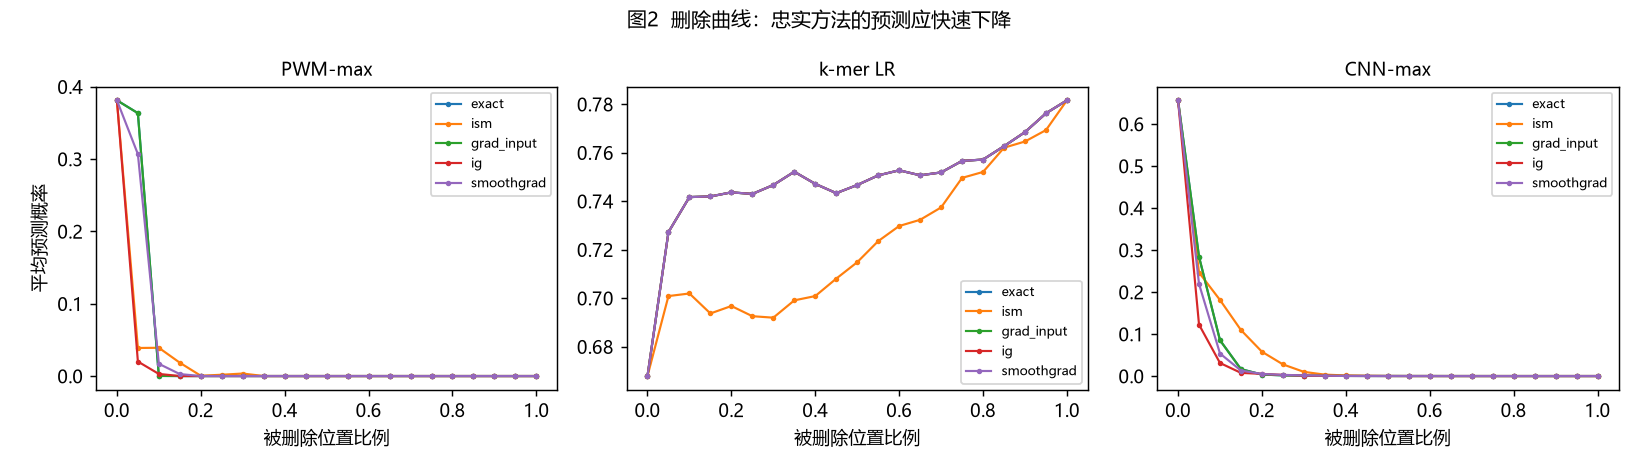
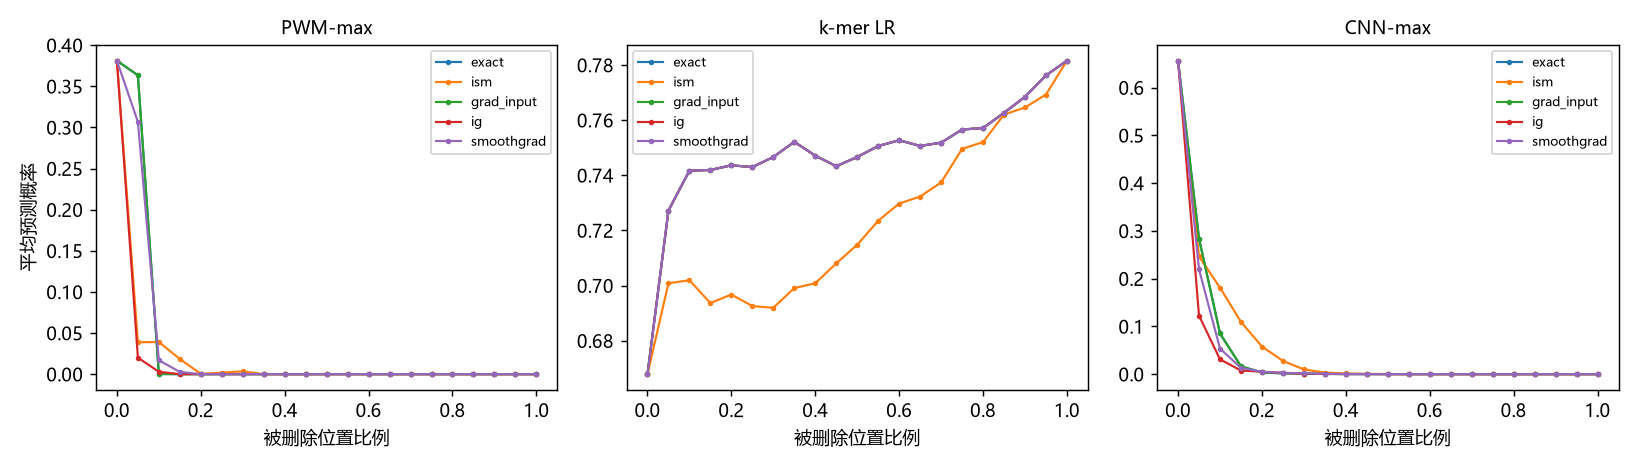
fix(figures): 移除图内标题，避免与论文图注重复；同步重跑基准结果

diff --git a/examples/run_benchmark.py b/examples/run_benchmark.py
@@ -238,7 +238,7 @@ def main() -> int:
         ax.set_xticks(xs + width * (len(method_names) - 1) / 2)
         ax.set_xticklabels(model_names)
         ax.set_ylabel("位置级 ROC-AUC")
-        ax.set_title("图1  不同归因方法的位置级忠实度（越高越好）")
+        # ax.set_title("图1  不同归因方法的位置级忠实度（越高越好）")
         ax.axhline(0.5, ls="--", c="gray", lw=0.8)
         ax.legend(fontsize=8, ncol=len(method_names))
         ax.set_ylim(0.4, max(0.95, max(r["position_auc"] for r in rows) + 0.05))
@@ -262,7 +262,7 @@ def main() -> int:
             if any_curve:
                 ax.legend(fontsize=7)
         axes[0][0].set_ylabel("平均预测概率")
-        fig.suptitle("图2  删除曲线：忠实方法的预测应快速下降", fontsize=11)
+        # fig.suptitle("图2  删除曲线：忠实方法的预测应快速下降", fontsize=11)
         fig.tight_layout()
         fig.savefig(out / "fig2_deletion.png")
         plt.close(fig)
@@ -275,7 +275,7 @@ def main() -> int:
             ax.plot([r["width"] for r in sub], [r["position_auc"] for r in sub], marker="o", label=gname)
         ax.set_xlabel("卷积核宽度 w")
         ax.set_ylabel("位置级 ROC-AUC")
-        ax.set_title("图3  核宽与基序长度的匹配效应")
+        # ax.set_title("图3  核宽与基序长度的匹配效应")
         ax.legend()
         ax.grid(alpha=0.3)
         fig.tight_layout()
@@ -298,7 +298,7 @@ def main() -> int:
             axes[r][0].set_title(method, fontsize=8, loc="left")
             axes[r][0].set_yticks([])
         axes[-1][0].set_xlabel("序列位置")
-        fig.suptitle(f"图4  归因与真值对比（模型 {mn}）", fontsize=10)
+        # fig.suptitle(f"图4  归因与真值对比（模型 {mn}）", fontsize=10)
         fig.tight_layout()
         fig.savefig(out / "fig4_heatmap.png")
         plt.close(fig)
